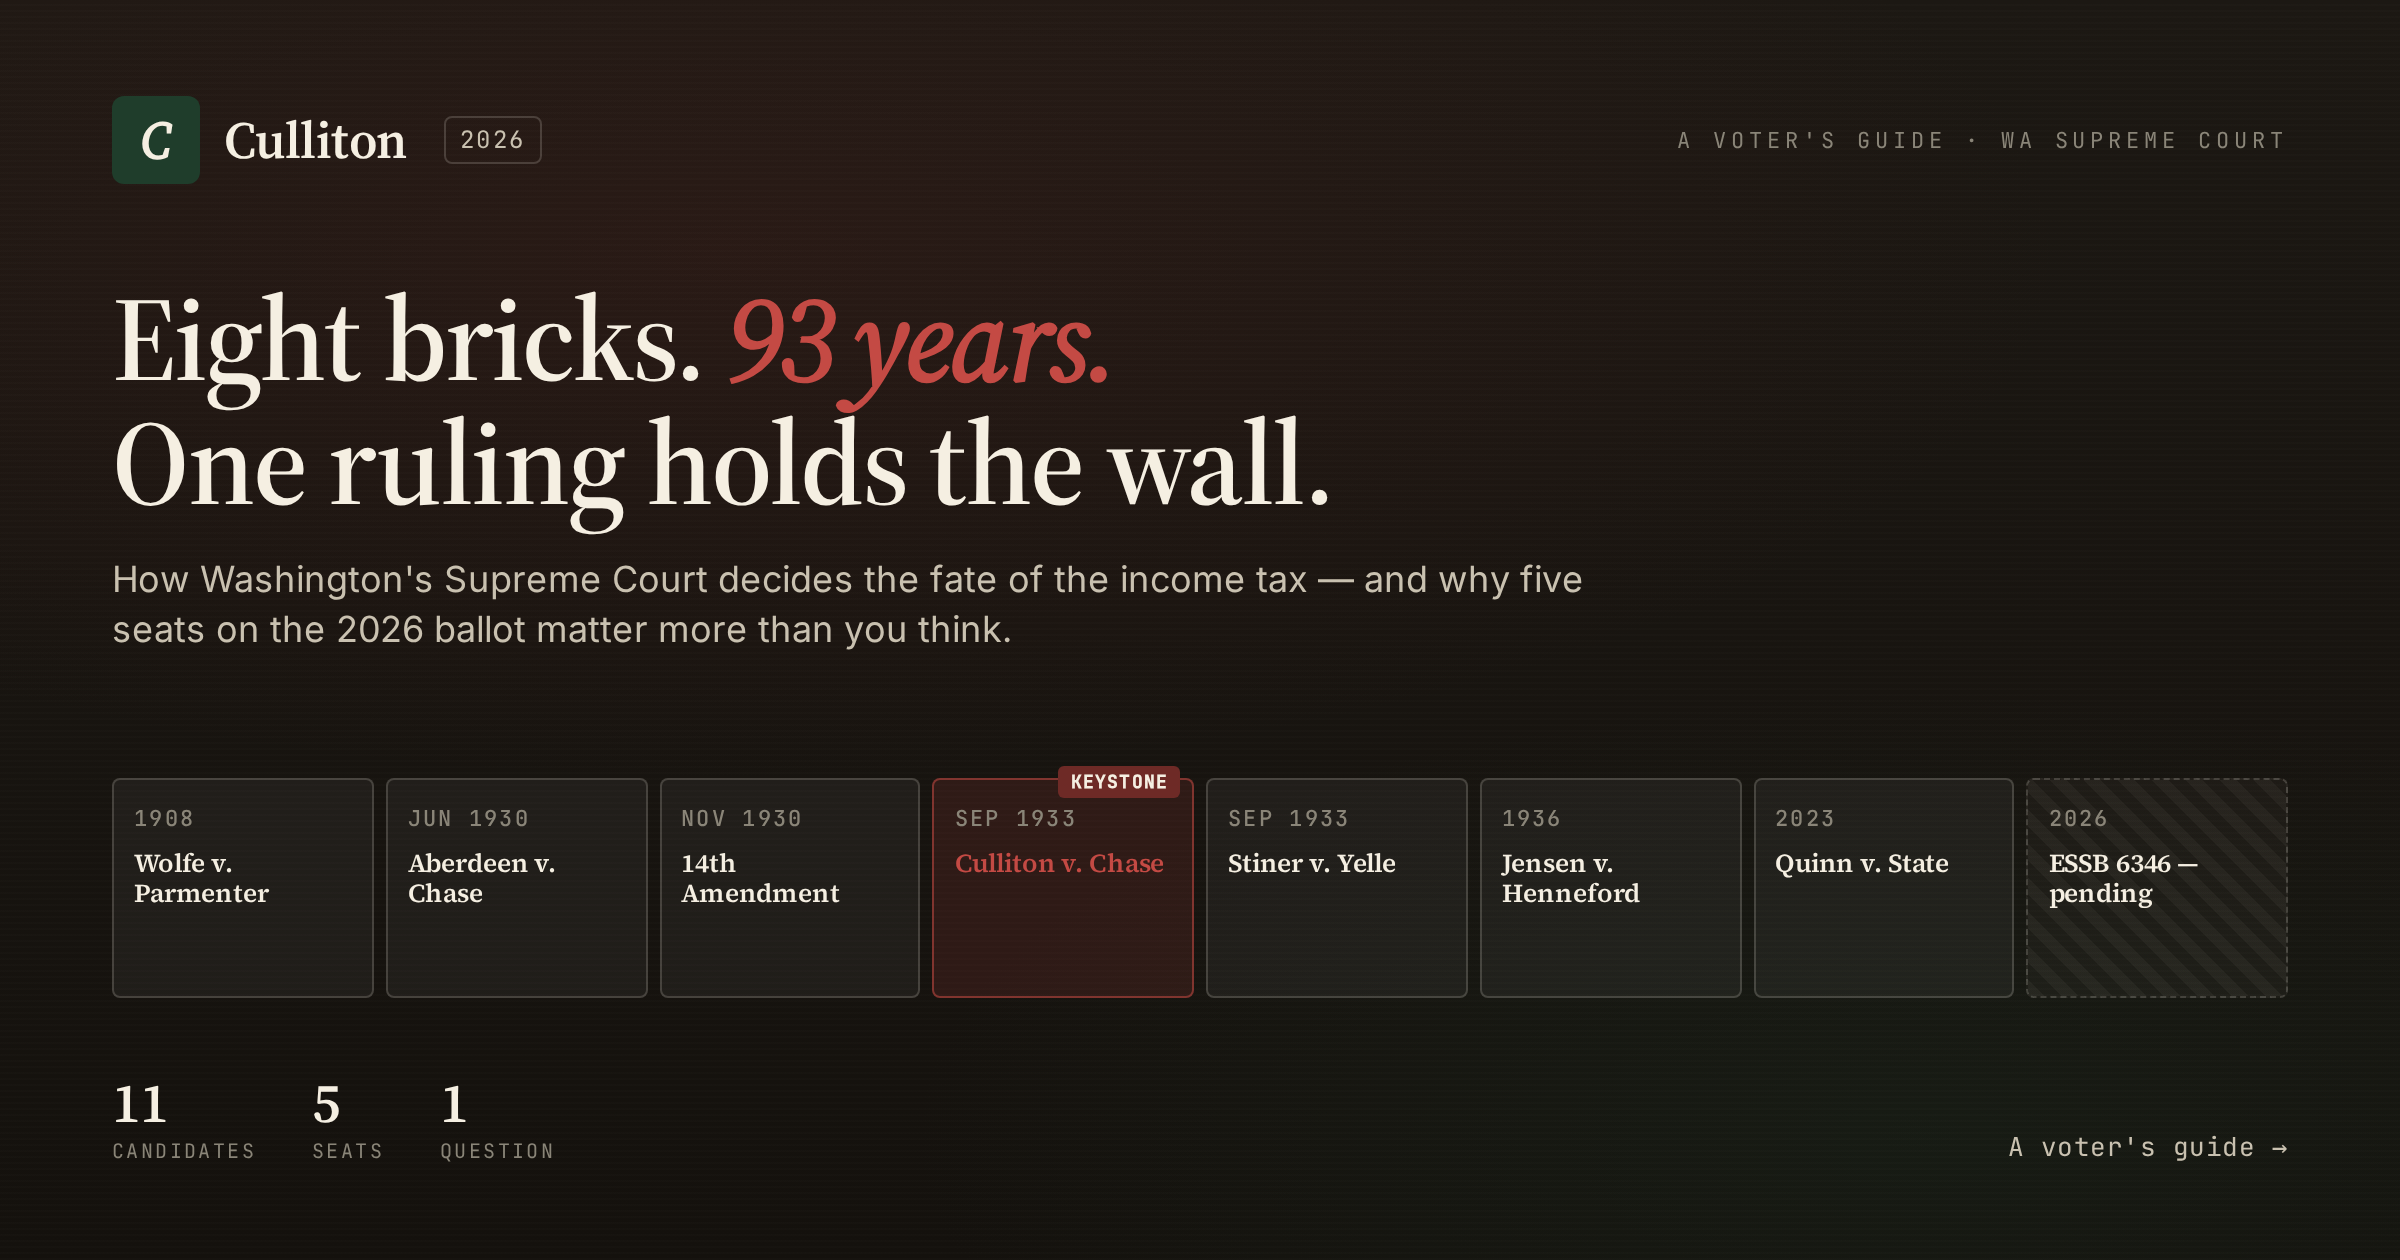
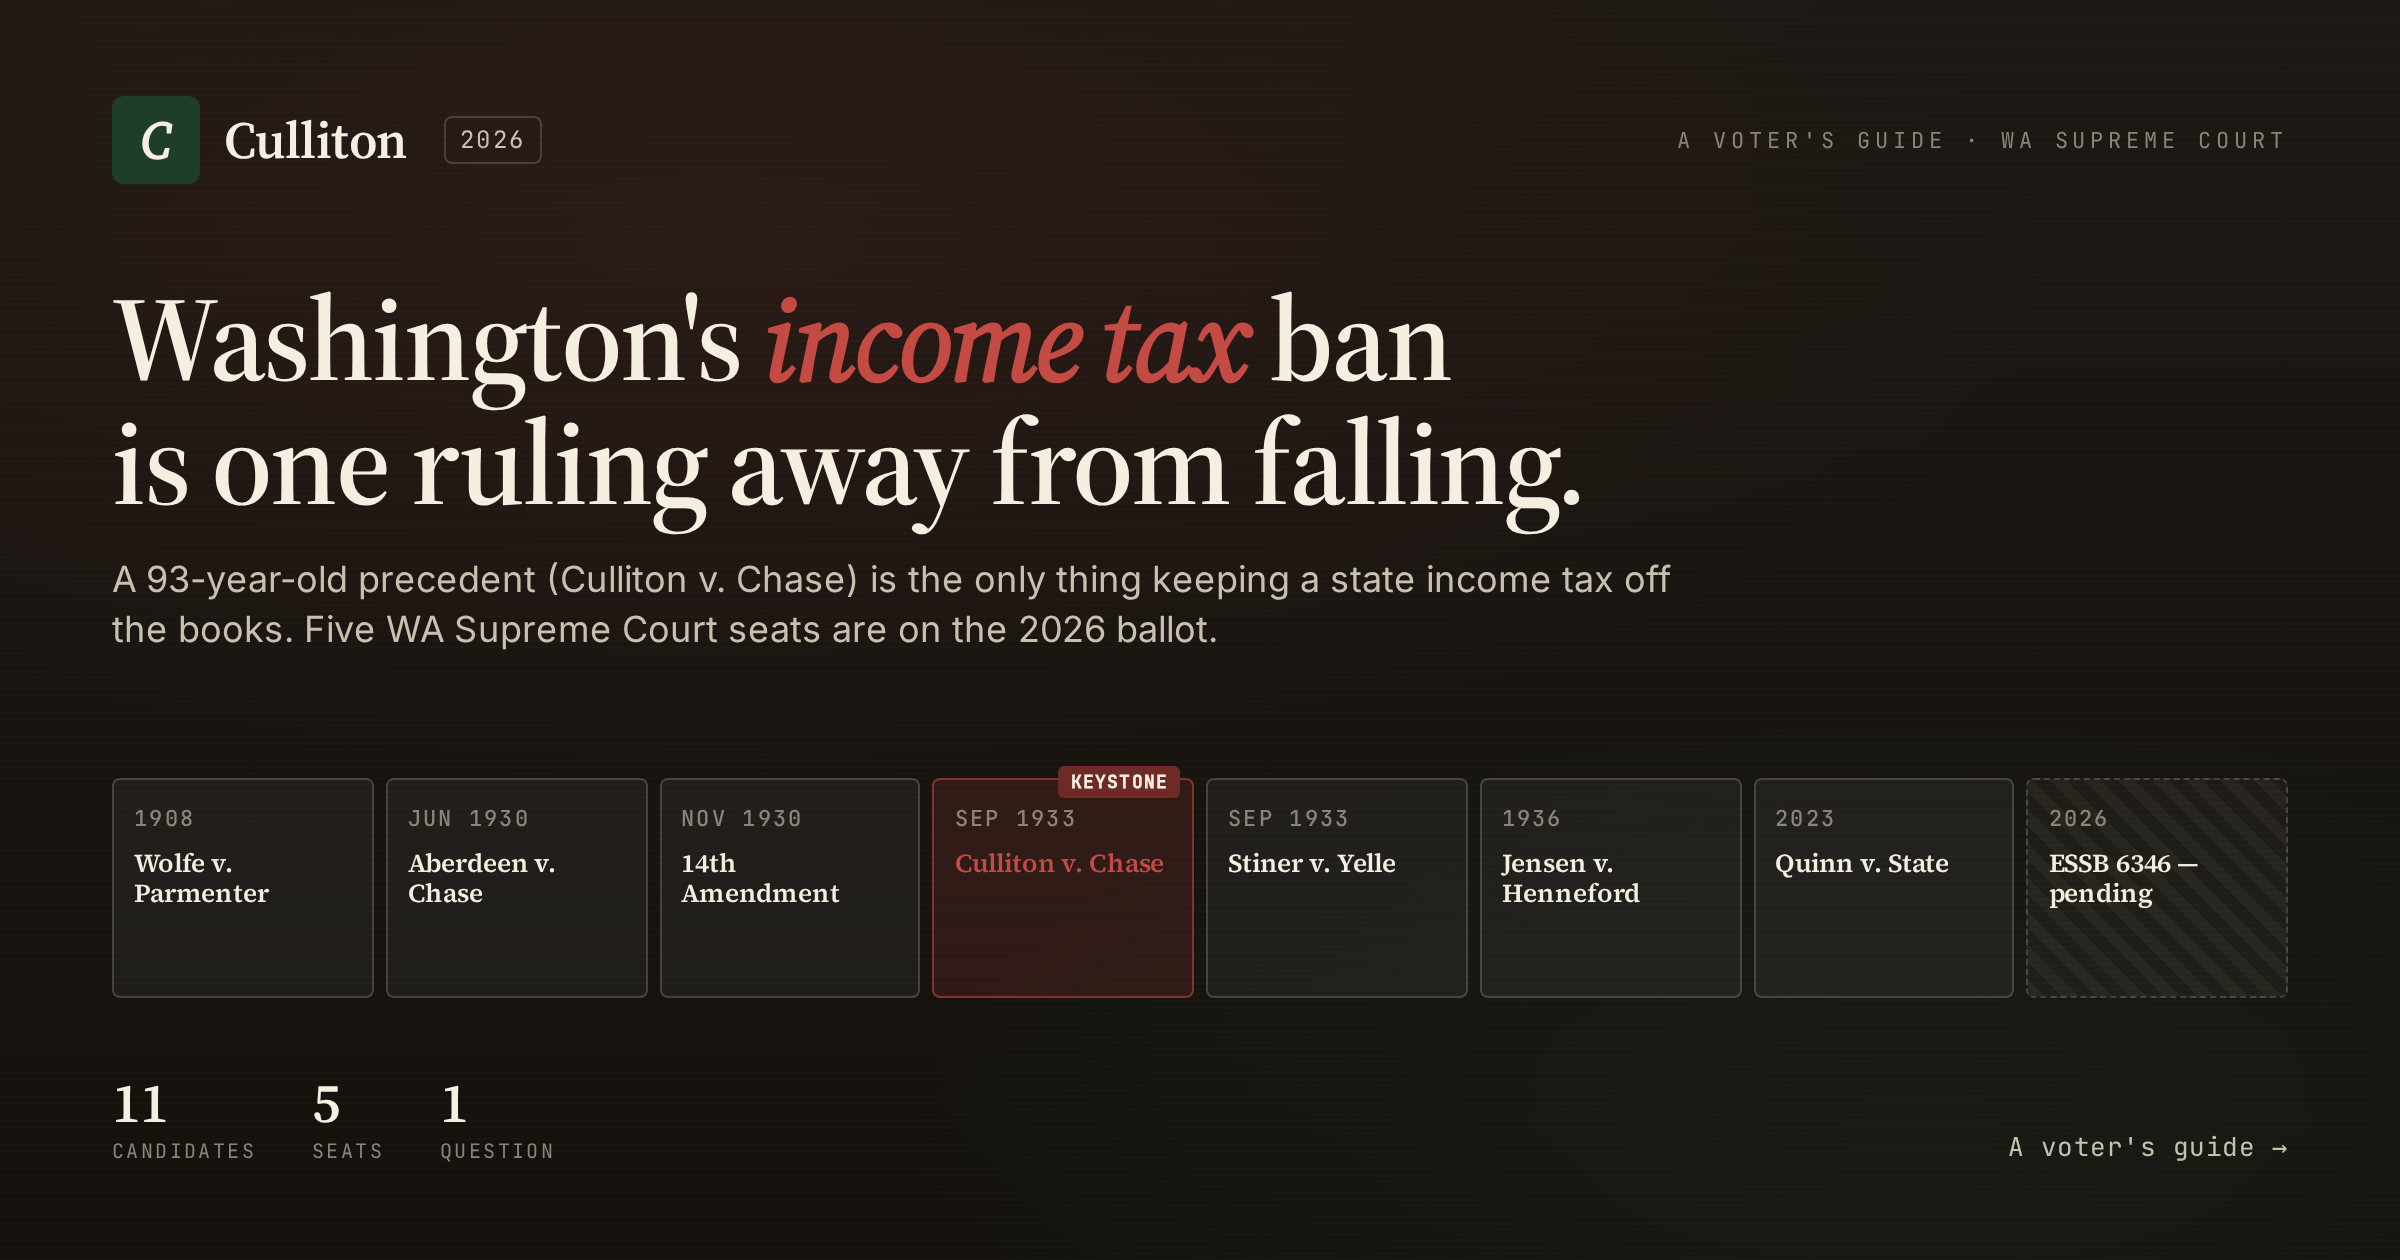
OG card: lead with income tax framing instead of 'Culliton'
- New headline: 'Washington's income tax ban is one ruling away from falling'
- Updated og:title on index.html and explainer.html to surface the actual stakes
- Most readers don't know what Culliton is; the share preview needs to say so

Changed region(s): [[0.0312, 0.2167, 0.6875, 0.5262]]

diff --git a/index.html b/index.html
@@ -3,14 +3,14 @@
 <head>
   <meta charset="UTF-8">
   <meta name="viewport" content="width=device-width, initial-scale=1.0">
-  <title>Culliton 2026 — A Voter's Guide to the WA Supreme Court Races</title>
-  <meta name="description" content="93 years of court rulings built the wall that blocks a state income tax in Washington. Five seats on the court that decides whether the wall holds are on this year's ballot. Here's where each candidate stands.">
+  <title>WA's income tax ban is one ruling away from falling · Culliton 2026</title>
+  <meta name="description" content="A 93-year-old precedent (Culliton v. Chase) is the only thing keeping a state income tax off the books in Washington. Five WA Supreme Court seats are on the 2026 ballot. Here's where each candidate stands.">
 
   <!-- Open Graph / Facebook / LinkedIn -->
   <meta property="og:type" content="website">
   <meta property="og:site_name" content="Culliton 2026">
-  <meta property="og:title" content="Culliton 2026 — A Voter's Guide">
-  <meta property="og:description" content="Eight bricks. 93 years. One ruling holds the wall. How Washington's Supreme Court decides the fate of the income tax — and why five seats on the 2026 ballot matter.">
+  <meta property="og:title" content="WA's income tax ban is one ruling away from falling">
+  <meta property="og:description" content="A 93-year-old precedent (Culliton v. Chase) is the only thing keeping a state income tax off the books. Five WA Supreme Court seats are on the 2026 ballot.">
   <meta property="og:url" content="https://picsterola.github.io/culliton2026/">
   <meta property="og:image" content="https://picsterola.github.io/culliton2026/images/og-card.png">
   <meta property="og:image:width" content="1200">
@@ -19,8 +19,8 @@
 
   <!-- Twitter -->
   <meta name="twitter:card" content="summary_large_image">
-  <meta name="twitter:title" content="Culliton 2026 — A Voter's Guide">
-  <meta name="twitter:description" content="Eight bricks. 93 years. One ruling holds the wall. Five WA Supreme Court seats on the 2026 ballot.">
+  <meta name="twitter:title" content="WA's income tax ban is one ruling away from falling">
+  <meta name="twitter:description" content="A 93-year-old precedent is the only thing keeping a state income tax off the books. Five WA Supreme Court seats on the 2026 ballot.">
   <meta name="twitter:image" content="https://picsterola.github.io/culliton2026/images/og-card.png">
   <meta name="twitter:image:alt" content="The wall of eight Washington court rulings on the income tax from 1908 to 2026, with Culliton v. Chase highlighted as the keystone.">
   <link rel="preconnect" href="https://fonts.googleapis.com">

diff --git a/explainer.html b/explainer.html
@@ -8,7 +8,7 @@
 
   <meta property="og:type" content="article">
   <meta property="og:site_name" content="Culliton 2026">
-  <meta property="og:title" content="The cases · Culliton 2026">
+  <meta property="og:title" content="The eight cases that block a WA income tax · Culliton 2026">
   <meta property="og:description" content="Eight bricks. 93 years. The cases, amendments, and statutes that built Washington's wall against the income tax.">
   <meta property="og:url" content="https://picsterola.github.io/culliton2026/explainer.html">
   <meta property="og:image" content="https://picsterola.github.io/culliton2026/images/og-card.png">
@@ -17,7 +17,7 @@
   <meta property="og:image:alt" content="The wall of eight Washington court rulings on the income tax from 1908 to 2026.">
 
   <meta name="twitter:card" content="summary_large_image">
-  <meta name="twitter:title" content="The cases · Culliton 2026">
+  <meta name="twitter:title" content="The eight cases that block a WA income tax · Culliton 2026">
   <meta name="twitter:description" content="Eight bricks. 93 years. The cases that built Washington's wall against the income tax.">
   <meta name="twitter:image" content="https://picsterola.github.io/culliton2026/images/og-card.png">
 

diff --git a/og-source.html b/og-source.html
@@ -257,8 +257,8 @@
   </div>
 
   <div class="title-block">
-    <h1 class="title">Eight bricks. <em>93 years.</em><br>One ruling holds the wall.</h1>
-    <p class="subtitle">How Washington's Supreme Court decides the fate of the income tax — and why five seats on the 2026 ballot matter more than you think.</p>
+    <h1 class="title">Washington's <em>income tax</em> ban<br>is one ruling away from falling.</h1>
+    <p class="subtitle">A 93-year-old precedent (Culliton v. Chase) is the only thing keeping a state income tax off the books. Five WA Supreme Court seats are on the 2026 ballot.</p>
   </div>
 
   <div class="wall">
